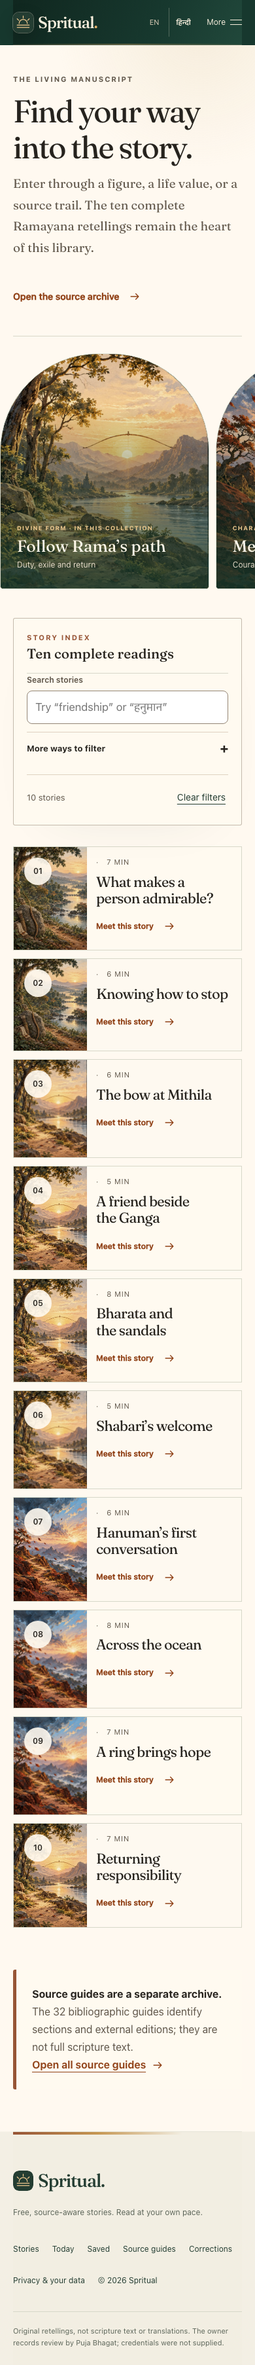
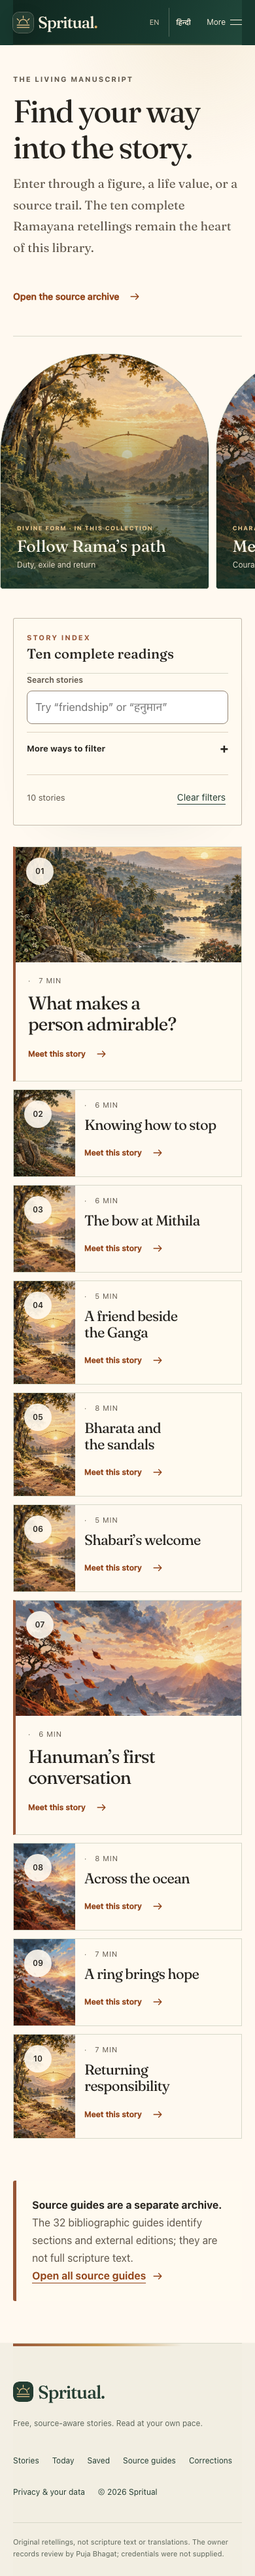
fix(product): close final navigation review gaps

diff --git a/website/library.css b/website/library.css
@@ -44,3 +44,9 @@ html[lang=hi] .library-subnav,html[lang=hi] .fine,html[lang=hi] .book-tile p,htm
 @media(max-width:850px){.library-heading{grid-template-columns:1fr;gap:20px}.library-heading-side{max-width:560px}.reading-layout{display:block;max-width:720px;margin-inline:auto}.reading-sidebar{position:static;display:grid;grid-template-columns:150px 1fr;grid-template-rows:auto auto 1fr;gap:0 22px;margin-bottom:30px;padding-bottom:26px;border-bottom:1px solid var(--line)}.reader-world-art{grid-row:1/5;aspect-ratio:4/5;margin:0;border-radius:80px 80px 8px 8px}.reading-sidebar>.eyebrow{align-self:end}.reading-sidebar>strong{align-self:start}.reading-sidebar .text-link{grid-column:2}.reading-article h1{font-size:48px}}
 @media(max-width:620px){.library-main{padding-top:24px;padding-bottom:72px}.library-heading{padding:16px 0 30px}.library-heading h1{font-size:43px}.library-lead{font-size:16px}.library-heading-side{padding:18px}.library-search{padding:14px;border-radius:12px}.library-main>.book-grid,.library-teaser .book-grid{gap:28px}.book-tile{padding:8px 8px 18px;margin:-8px -8px 0}.book-art,.book-tile:nth-child(2) .book-art,.book-tile:nth-child(3) .book-art{border-radius:110px 110px 9px 9px}.library-directory{margin-top:64px}.directory-jumps{top:0;background:color-mix(in srgb,var(--paper) 92%,transparent)}.directory-group-heading{display:flex;align-items:center;padding:19px 16px;border-left-width:4px}.directory-group-heading h3{font-size:27px}.directory-group-heading p:not(.eyebrow){font-size:12px}.directory-open{font-size:0}.directory-open>span{font-size:18px;width:32px;height:32px}.directory-rows{padding-inline:12px}.directory-rows>a{padding:17px 4px}.directory-about{margin-inline:16px}.collection-hero{padding:18px;border-radius:15px}.reading-sidebar{display:block;margin-bottom:24px;padding-bottom:20px}.reader-world-art{aspect-ratio:16/8;max-height:220px;border-radius:120px 120px 8px 8px;margin-bottom:18px}.reading-sidebar>.eyebrow,.reading-sidebar>strong{display:inline}.reading-sidebar>strong{font-size:20px;margin-left:8px}.reading-sidebar .text-link{display:inline-flex;width:auto;border:0;margin:10px 14px 0 0;padding:0}.reading-article h1{font-size:42px;max-width:none}.reader-tools{display:grid;grid-template-columns:1fr 1fr;padding:8px}.reader-tools>div{grid-column:1/-1}.reader-tools .text-button{border-color:var(--line)}.reader-prose{font-size:18px}.guide-prose>section:first-of-type p{font-size:21px;line-height:1.72}.editorial-status{display:block;padding:15px;margin-bottom:25px}.editorial-status>span{margin-bottom:5px}.editorial-status strong{display:block}.editorial-status p{margin-top:4px;font-size:12px}.guide-facts{gap:12px}.source-note{padding:22px}.reflection-prompt p{font-size:22px}}
 @media(max-width:380px){.reading-sidebar .text-link{font-size:12px}.reading-article h1{font-size:36px}.reader-tools{grid-template-columns:1fr}.reader-tools>.text-button{grid-column:1}.reader-tools .reading-size{grid-column:1}.guide-prose>section:first-of-type p{font-size:20px}.directory-group-heading h3{font-size:24px}}
+
+/* Manuscript reading desk: source context should feel continuous with the archive. */
+.reading-article{position:relative;padding-top:14px}.reading-article:before{content:"";position:absolute;left:0;top:0;width:72px;height:2px;background:linear-gradient(90deg,var(--copper),var(--manuscript-gold,#c69752))}
+.reader-tools{background:linear-gradient(115deg,var(--ink-deep,#10271f),var(--ink,#17382e));border-color:#8f795f;color:#fff8e9;box-shadow:0 22px 48px -40px var(--world-shadow)}.reader-tools .text-button,.reader-tools button:not(.text-button){color:#fff8e9;border-color:#fff8e947;background:transparent}.reader-tools .text-button:hover,.reader-tools button:not(.text-button):hover{color:#fffdf7;border-color:#e2b66f;background:#fff8e912}.reader-tools button[aria-pressed=true],.reader-tools .text-button[aria-pressed=true]{background:#e2b66f;color:#172c24;border-color:#e2b66f;box-shadow:inset 0 0 0 1px #fff4d45c}.reader-tools .reader-tool-label{color:#f3e8d4}
+.reading-article>.reader-prose{position:relative;padding:34px 38px;border:1px solid var(--line);border-left:4px solid var(--copper);border-radius:4px;background:color-mix(in srgb,var(--paper-2,#fffaf0) 82%,transparent);box-shadow:0 30px 70px -58px var(--world-shadow)}.reading-article>.reader-prose>h2:first-child{margin-top:0;color:var(--copper);font-family:var(--sans);font-size:13px;font-weight:700;letter-spacing:.12em;text-transform:uppercase}
+@media(max-width:620px){.reading-article{padding-top:12px}.reading-article>.reader-prose{padding:25px 21px}.reader-tools .text-button:not([aria-pressed=true]):hover,.reader-tools button:not(.text-button):hover{background:transparent}.reader-tools .text-button[aria-pressed=true]:hover{background:#e2b66f;color:#172c24}}

diff --git a/website/tests/library.spec.ts b/website/tests/library.spec.ts
@@ -20,6 +20,10 @@ test('source catalogue exposes collection jumps and readable mobile controls',as
  await page.setViewportSize({width:320,height:760});await page.goto('/library/sources/');await expect(page.locator('.directory-jumps a')).toHaveCount(3);await expect(page.locator('[data-library-group]:visible')).toHaveCount(3);await page.goto('/library/ramayana/sundara/');for(const button of await page.locator('.reader-tools button').all()){const box=await button.boundingBox();expect(box?.height).toBeGreaterThanOrEqual(44);}expect(await page.evaluate(()=>document.documentElement.scrollWidth<=innerWidth)).toBe(true);
 });
 
+for(const width of [320,390,1440])test(`saved source-guide control keeps readable contrast at ${width}px`,async({page})=>{
+ await page.setViewportSize({width,height:900});await page.goto('/library/ramayana/sundara/');const button=page.locator('[data-save]');await expect(button).toHaveText('Save this place');await button.click();await expect(button).toHaveAttribute('aria-pressed','true');await expect(button).toHaveText('Remove saved place');const ratio=await button.evaluate(element=>{const parse=(value:string)=>value.match(/[\d.]+/g)!.slice(0,3).map(Number);const luminance=(rgb:number[])=>rgb.map(value=>{const channel=value/255;return channel<=.03928?channel/12.92:((channel+.055)/1.055)**2.4;}).reduce((sum,value,index)=>sum+value*[.2126,.7152,.0722][index],0);const style=getComputedStyle(element);const foreground=luminance(parse(style.color));const background=luminance(parse(style.backgroundColor));return (Math.max(foreground,background)+.05)/(Math.min(foreground,background)+.05);});expect(ratio).toBeGreaterThanOrEqual(4.5);
+});
+
 test('shelf corruption is visible and requires explicit removal',async({page})=>{await page.addInitScript(k=>localStorage.setItem(k,'invalid'),key);await page.goto('/library/ramayana/uttara/');await expect(page.locator('#shelf-warning')).toBeVisible();await expect(page.locator('[data-save]')).toBeDisabled();await page.locator('#clear-shelf').click();await expect(page.locator('[data-save]')).toBeEnabled();expect(await page.evaluate(k=>localStorage.getItem(k),key)).toBeNull();});
 test('denied writes do not claim a saved reading place',async({page})=>{await page.addInitScript(()=>{Storage.prototype.setItem=()=>{throw Error('blocked');};});await page.goto('/library/shiva/rudra/');await page.locator('[data-save]').click();await expect(page.locator('#shelf-status')).toContainText('Could not update');await expect(page.locator('[data-save]')).toHaveAttribute('aria-pressed','false');});
 test('reading controls, next section, source safety and local-only boundaries',async({page,request})=>{await page.goto('/library/mahabharata/adi/');await expect(page.locator('.editorial-status')).toContainText('unreviewed');await expect(page.locator('.guide-facts li')).toHaveCount(8);await page.getByRole('button',{name:'Larger text',exact:true}).click();await expect(page.locator('#reading-size-status')).toHaveText('110%');await page.getByRole('button',{name:'Focus view',exact:true}).click();await expect(page.locator('body')).toHaveClass(/reading-focus/);const external=page.getByRole('link',{name:'Open source edition',exact:false});await expect(external).toHaveAttribute('href','https://www.gutenberg.org/ebooks/15474');await expect(external).toHaveAttribute('rel','noopener noreferrer');await page.locator('.reader-next a').filter({hasText:'Sabha'}).click();await expect(page.locator('h1')).toHaveText('Sabha Parva');for(const path of ['/sources/pg15474.txt','/library/mahabharata/adi/read/1/','/artifacts/library-source/staged.json'])expect((await request.get(path)).status()).toBe(404);});

diff --git a/website/reading.css b/website/reading.css
@@ -137,4 +137,5 @@ body:has(.story-reader){background:color-mix(in srgb,var(--world-bg,var(--lanter
 @media(max-width:1023px){.manuscript-cover .story-hero-grid{grid-template-columns:1fr 1fr;grid-template-areas:"copy art" "index index"}.manuscript-cover .hero-story{min-height:520px}.manuscript-cover .hero-story img{min-height:520px}.discovery-doorways{grid-template-columns:1fr 1fr}.doorway-source{grid-column:1/-1;min-height:180px;border-radius:5px}.doorway-source>svg{position:absolute;right:24px;top:24px}}
 @media(max-width:767px){.manuscript-cover{padding-top:26px}.manuscript-cover .story-hero-grid{display:flex;flex-direction:column;gap:26px}.manuscript-cover .story-hero-copy{padding-left:17px}.manuscript-cover .story-hero-copy h1{font-size:clamp(46px,12vw,64px)}.manuscript-cover .story-hero-copy>p:not(.eyebrow,.hero-assurance){font-size:16px}.manuscript-cover .hero-story{width:100%;min-height:440px;border-radius:150px 150px 8px 8px}.manuscript-cover .hero-story img{min-height:440px}.manuscript-index{width:100%;grid-template-columns:1fr}.manuscript-index a{min-height:72px}.manuscript-index a+a{border-left:0;border-top:1px solid var(--line)}.today-section{grid-template-columns:1fr;gap:24px;padding-top:58px}.story-library{padding-top:25px}.library-intro{grid-template-columns:1fr;gap:20px;padding-top:18px}.library-intro h1{font-size:48px}.discovery-doorways{display:flex;overflow-x:auto;gap:10px;margin-inline:-20px;padding-inline:20px;scroll-snap-type:x mandatory}.doorway{flex:0 0 min(82vw,330px);min-height:360px;scroll-snap-align:start}.doorway-source{flex-basis:min(72vw,280px);min-height:360px;border-radius:120px 120px 5px 5px}.filter-heading{display:grid;gap:3px}.story-results{display:grid;grid-template-columns:1fr;background:transparent;border:0;gap:12px}.story-results .story-card{border:1px solid var(--line)}.character-hero{border-radius:8px 100px 8px 8px}.my-reading>header{padding:24px 0 28px}.my-reading>header:after{display:none}.my-reading .empty-state{min-height:0;padding:38px 28px 140px}.my-reading .empty-state:after{right:-9%;top:auto;bottom:-28%;width:55%}}
 @media(max-width:430px){.manuscript-cover .hero-story{min-height:390px}.manuscript-cover .hero-story img{min-height:390px}.story-results .story-card{grid-template-columns:112px minmax(0,1fr)}.story-results .story-card-copy{padding:14px}.story-results .story-card h3{font-size:22px}.story-results .story-card-copy>p{display:none}.character-hero{padding:22px}.my-reading .empty-state{padding-bottom:118px}}
+@media(max-width:767px){.epic-shelf{background:linear-gradient(180deg,var(--manuscript-forest) 0 255px,var(--manuscript-paper,#f8f1e3) 255px 100%);border-bottom-color:var(--line)}.epic-shelf>.wrap>.text-link{color:var(--ink)}.epic-shelf .featured-grid{gap:12px}.story-results .story-card{grid-template-columns:94px minmax(0,1fr);min-height:104px}.story-results .story-card-art{min-height:104px}.story-results .story-card:nth-child(1),.story-results .story-card:nth-child(7){grid-template-columns:1fr;border-left:4px solid var(--copper)}.story-results .story-card:nth-child(1) .story-card-art,.story-results .story-card:nth-child(7) .story-card-art{height:176px}.story-results .story-card:nth-child(1) .story-card-copy,.story-results .story-card:nth-child(7) .story-card-copy{padding:19px}.story-results .story-card:nth-child(1) h3,.story-results .story-card:nth-child(7) h3{font-size:28px}}
 @media(prefers-reduced-motion:reduce){.manuscript-cover .hero-story img,.doorway,.doorway img,.path-grid>a,.related-row{transition:none!important}.manuscript-cover .hero-story:hover img,.doorway:hover,.doorway:hover img,.path-grid>a:hover{transform:none!important}}

diff --git a/e2e/real-connected.spec.ts b/e2e/real-connected.spec.ts
@@ -142,6 +142,7 @@ test("connected mode signs in with a verified session, reads a circle and contro
   await expect(page.getByRole("button", { name: "Remove saved mark" })).toBeVisible();
 
   await page.getByRole("button", { name: "हिन्दी" }).click();
+  await expect(page.locator("html")).toHaveAttribute("lang", "hi");
   await expect(page.getByRole("heading", { name: "पाठ उपलब्ध नहीं है।" })).toBeVisible();
   await expect(page.getByText(reading.body)).toHaveCount(0);
   await page.getByRole("link", { name: "उपलब्ध पाठ देखें" }).click();
@@ -149,6 +150,7 @@ test("connected mode signs in with a verified session, reads a circle and contro
   await expect(page.getByText(hindiReading.body)).toBeVisible();
   await expect(page.getByRole("button", { name: "बाद के लिए सहेजें" })).toBeVisible();
   await page.reload();
+  await expect(page.locator("html")).toHaveAttribute("lang", "hi");
   await expect(page.getByText(hindiReading.body)).toBeVisible();
   await page.goto("/alpha/today");
   await expect(page.getByRole("heading", { name: "एक समय में एक पाठ।" })).toBeVisible();
@@ -205,9 +207,11 @@ test("connected mode does not expose demo identities to a signed-out visitor", a
   await expect(page.getByLabel("Email address")).toBeVisible();
   await page.getByRole("button", { name: "हिन्दी" }).click();
   await expect(page.getByRole("heading", { name: "अपने शिक्षक के साथ आगे बढ़ें।" })).toBeVisible();
+  await expect(page.locator("html")).toHaveAttribute("lang", "hi");
   await expect(page.getByLabel("ईमेल पता")).toBeVisible();
   await page.reload();
   await expect(page.getByRole("heading", { name: "अपने शिक्षक के साथ आगे बढ़ें।" })).toBeVisible();
+  await expect(page.locator("html")).toHaveAttribute("lang", "hi");
   expect(await page.evaluate(() => document.documentElement.scrollWidth <= innerWidth)).toBe(true);
   await expect(page.getByText("Demo workspace controls")).toHaveCount(0);
 });

diff --git a/web/src/alpha/AlphaApp.tsx b/web/src/alpha/AlphaApp.tsx
@@ -119,6 +119,7 @@ function Shell() {
   const showDemoControls = legacyWorkspace || location.pathname === "/alpha/settings" || location.pathname === "/alpha/join" || location.pathname === "/alpha/sample" || location.pathname === "/alpha/sample-complete";
   const wisdomSurface = ["/alpha", "/alpha/today", "/alpha/library", "/alpha/life", "/alpha/divine", "/alpha/search", "/alpha/stories", "/alpha/stories/arjuna-bow", "/alpha/my-day", "/alpha/practice", "/alpha/series/gita", "/alpha/account", "/alpha/settings"].includes(location.pathname) || location.pathname.startsWith("/alpha/divine/") || location.pathname.startsWith("/alpha/sources/") || location.pathname.startsWith("/alpha/scriptures") || location.pathname.startsWith("/alpha/wisdom/") || location.pathname.startsWith("/alpha/reflection/") || storyReader;
   const [readingLanguage, setReadingLanguage] = useState<"en" | "hi">("en");
+  const previousDocumentLanguage = useRef(document.documentElement.lang || "en");
   const [systemDark, setSystemDark] = useState(() => window.matchMedia?.("(prefers-color-scheme: dark)").matches ?? false);
   useEffect(() => {
     const media = window.matchMedia?.("(prefers-color-scheme: dark)");
@@ -143,6 +144,12 @@ function Shell() {
     window.addEventListener("storage", sync);
     return () => { window.removeEventListener("spritual-alpha-language", sync); window.removeEventListener("storage", sync); };
   }, [actor.id]);
+  useEffect(() => {
+    document.documentElement.lang = wisdomSurface ? readingLanguage : "en";
+  }, [readingLanguage, wisdomSurface]);
+  useEffect(() => () => {
+    document.documentElement.lang = previousDocumentLanguage.current;
+  }, []);
   const label = (en: string, hi: string) => readingLanguage === "hi" ? hi : en;
   const main = useRef<HTMLElement>(null);
   useEffect(() => {

diff --git a/e2e/member-journey.spec.ts b/e2e/member-journey.spec.ts
@@ -229,6 +229,7 @@ test("Hindi, larger text, night appearance, and reduced motion survive the readi
   await page.getByRole("link", { name: "Today", exact: true }).click();
   await page.locator('.dev-language button[lang="hi"]').click();
   await expect(page.getByRole("heading", { name: "यहीं से शुरू करें।" })).toBeVisible();
+  await expect(page.locator("html")).toHaveAttribute("lang", "hi");
   await expect(page.locator(".alpha")).toHaveAttribute("data-appearance", "night");
   await expect(page.locator(".alpha")).toHaveAttribute("data-large", "true");
   await expect(page.locator(".alpha")).toHaveAttribute("data-reduced", "true");
@@ -240,6 +241,7 @@ test("Hindi, larger text, night appearance, and reduced motion survive the readi
   await expect(page.locator("blockquote[lang='sa-Deva']")).toBeVisible();
   await expectNoHorizontalOverflow(page);
   await page.reload();
+  await expect(page.locator("html")).toHaveAttribute("lang", "hi");
   await expect(page.locator(".alpha")).toHaveAttribute("data-appearance", "night");
   await expect(page.locator(".alpha")).toHaveAttribute("data-large", "true");
   await expect(page.locator(".alpha")).toHaveAttribute("data-reduced", "true");

diff --git a/web/src/alpha/real/RealAlphaApp.tsx b/web/src/alpha/real/RealAlphaApp.tsx
@@ -491,6 +491,9 @@ function RealReadingRoute({ client, language }: { client: SupabaseClient; langua
 
 export default function RealAlphaApp() {
   const [language, setLanguage] = useState<RealLanguage>(initialLanguage);
+  const previousDocumentLanguage = useRef(document.documentElement.lang || "en");
+  useEffect(() => { document.documentElement.lang = language; }, [language]);
+  useEffect(() => () => { document.documentElement.lang = previousDocumentLanguage.current; }, []);
   function changeLanguage(value: RealLanguage) { setLanguage(value); rememberLanguage(value); }
   const [connection] = useState(() => {
     try {

diff --git a/docs/project/WHOLE_PRODUCT_CONTRACT.md b/docs/project/WHOLE_PRODUCT_CONTRACT.md
@@ -106,8 +106,9 @@ Observed verification:
 
 - Website static build: 152 public pages plus 404.
 - Website Node suite: 29/29.
-- Website Chromium suite: 71/73 initially exposed a stale Hindi CTA expectation and a re-enabled reduced-motion fade; both were corrected and the two focused regressions passed. All other 71 cases passed, including 320/390/768/1440, English/Hindi, no-JavaScript, keyboard, 200% text, storage failure, exact resume and source-return flows.
+- Website Chromium suite: 76/76 passed, including new computed-contrast coverage for the saved source-guide action at 320/390/1440. The final saved state remains readable after touch/hover as well as at rest.
 - Root unit suite: 160/160 when run with loopback permission (the sandbox-only run blocked two temporary HTTP listeners; it did not expose a product failure).
 - Root build: content/media audits, TypeScript, Vite and PWA generation passed. Preview-only art remains explicitly unreviewed.
-- Alpha default Chromium suite: 24/24 passed; ten opt-in connected-mode cases were skipped by their documented gate.
-- Twelve final responsive captures returned HTTP 200 with no console errors and no horizontal overflow.
+- Alpha default Chromium suite: 34/34 passed. The local Hindi switch now updates the document language immediately and after reload; the connected shell uses the same document-language boundary. Ten opt-in connected-mode cases remain behind their documented gate.
+- Fourteen final responsive captures returned HTTP 200 with no console errors and no horizontal overflow, including the corrected source-guide saved state on mobile and desktop.
+- The mobile epic shelf now changes from a short forest introduction to a parchment card field, Explore gives the Rama and Hanuman entry stories distinct feature rows, and source guides use the shared manuscript reading desk without adding content or changing source claims.
